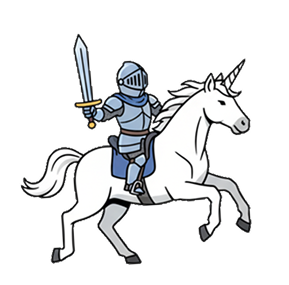
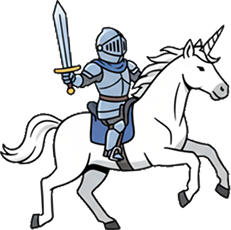
리소스 관련 업데이트
이미지 에셋 추가/변경, ResourceManager에 반영

diff --git a/src/marchoffools/client/core/ResourceManager.java b/src/marchoffools/client/core/ResourceManager.java
@@ -13,8 +13,11 @@ public class ResourceManager {
     public static void loadAllResources() {
         try {
             loadImage("player", "/assets/testCharacter.png");
-            loadImage("obstacle", "/assets/testObstacle.png");
-            loadImage("enemy_eagle", "/assets/testEnemy2.png");
+            
+            for (marchoffools.common.model.GameEntity entity : 
+                marchoffools.common.model.GameEntity.values()) {
+               loadImage(entity.name(), entity.getImagePath());
+           }
             
             System.out.println("All resources loaded successfully.");
         } catch (Exception e) {
